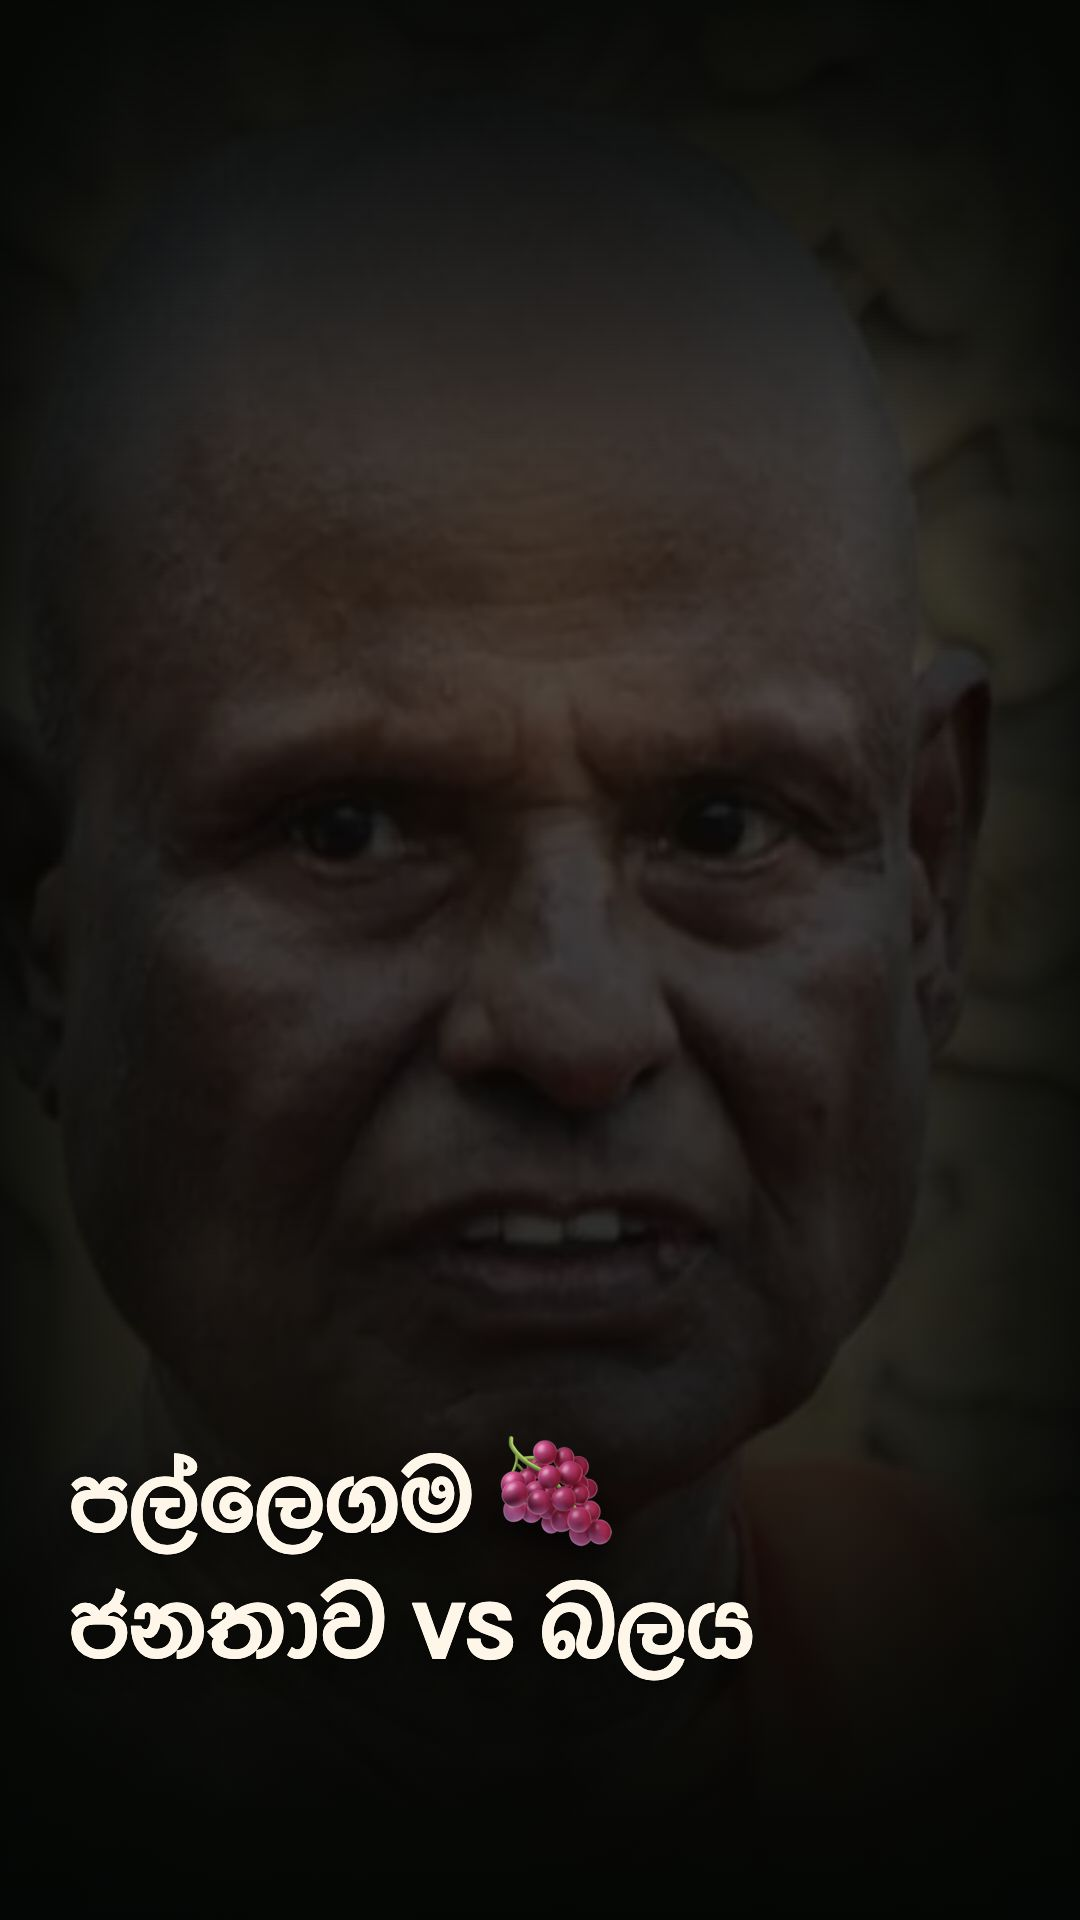
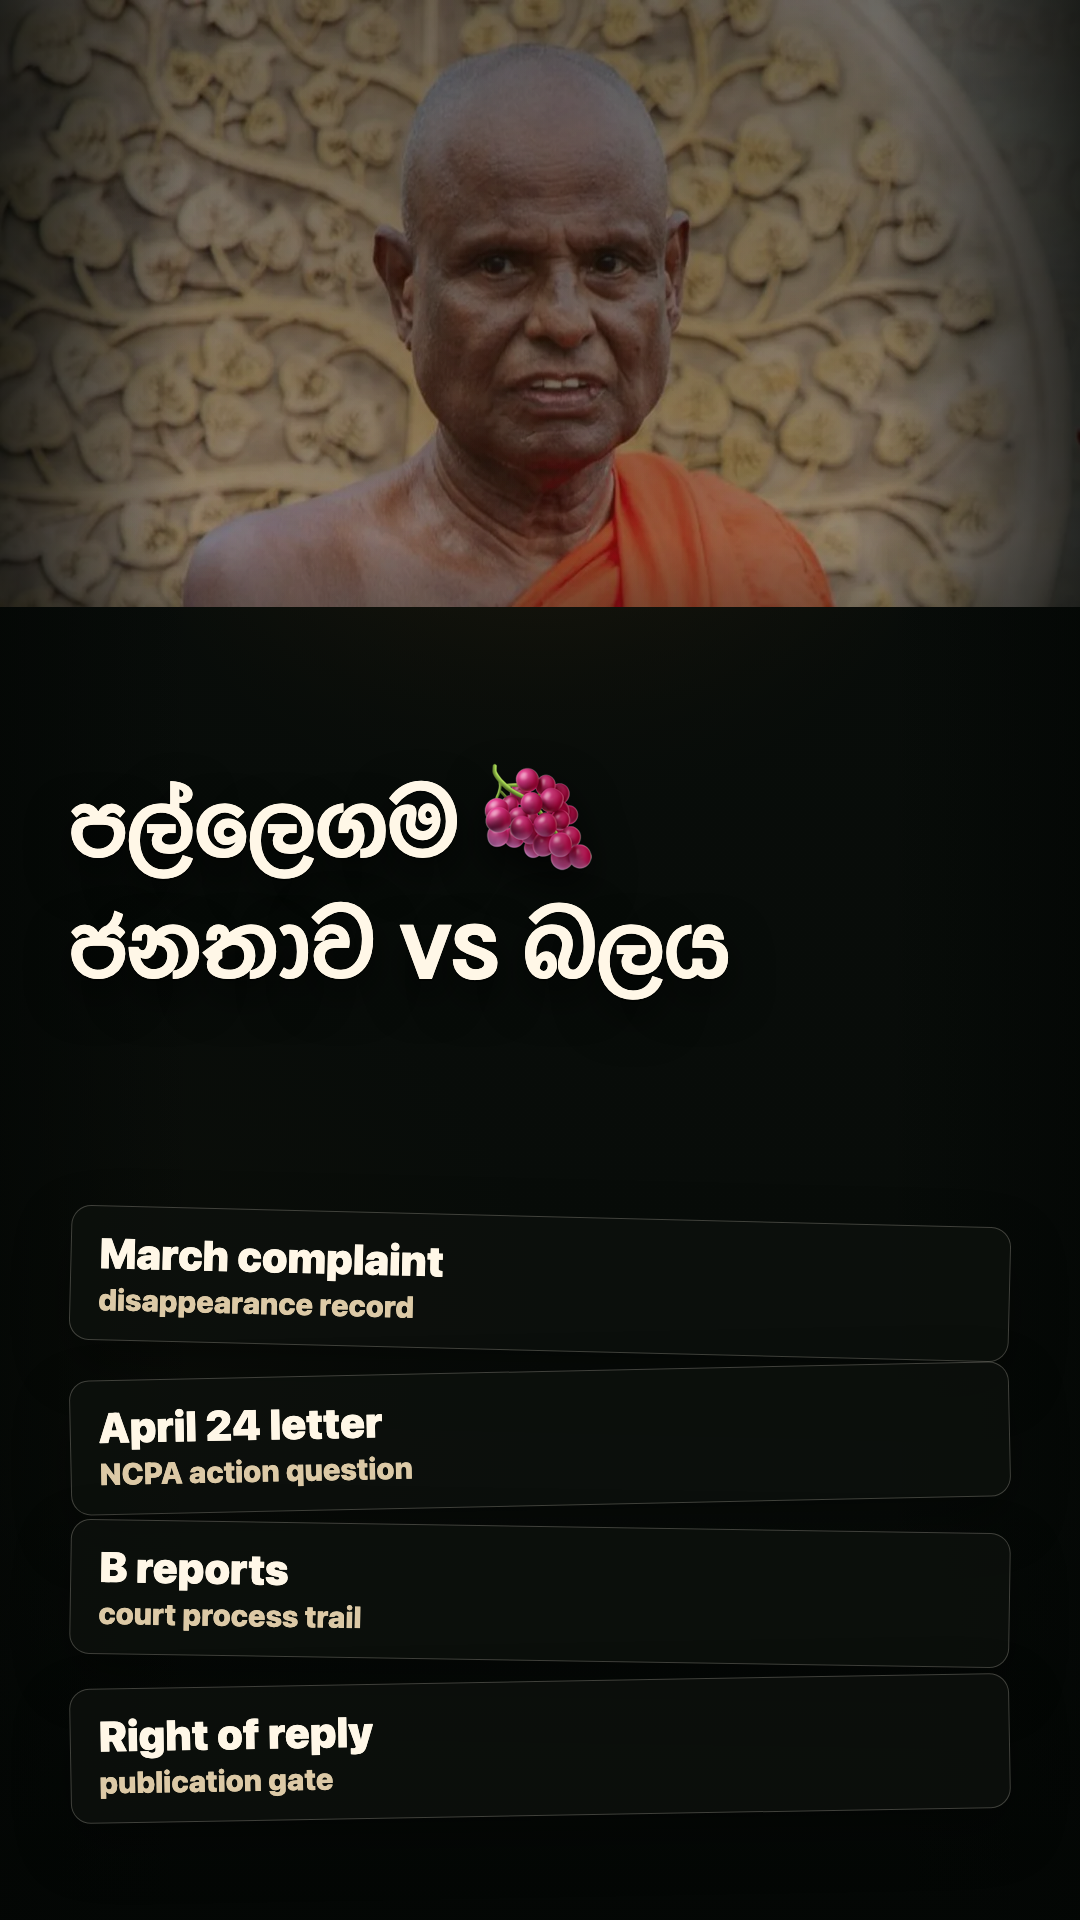
Redesign Pallegama vertical social thumbnail

diff --git a/public/pallegama-hemarathana-alleged-minor-abuse/thumbnails/social-vertical-sinhala-title.html b/public/pallegama-hemarathana-alleged-minor-abuse/thumbnails/social-vertical-sinhala-title.html
@@ -21,38 +21,41 @@
     }
     .photo {
       position: absolute;
-      inset: 0;
+      left: 0;
+      right: 0;
+      top: 0;
+      height: 740px;
       z-index: -4;
       background-image: url("../assets/pallegama-hemarathana-context.webp");
-      background-size: cover;
-      background-position: 52% 50%;
-      filter: saturate(.9) contrast(1.08) brightness(.62);
-      transform: scale(1.06);
+      background-size: 1080px auto;
+      background-position: center top;
+      background-repeat: no-repeat;
+      filter: saturate(.92) contrast(1.05) brightness(.78);
     }
     .veil {
       position: absolute;
       inset: 0;
       z-index: -3;
       background:
-        linear-gradient(180deg, rgba(5, 8, 6, .84) 0%, rgba(7, 10, 8, .42) 36%, rgba(8, 12, 9, .78) 78%, rgba(5, 8, 6, .96) 100%),
-        radial-gradient(circle at 50% 28%, rgba(212, 138, 44, .2), transparent 32%),
-        radial-gradient(circle at 18% 86%, rgba(212, 138, 44, .16), transparent 28%);
+        linear-gradient(180deg, rgba(5, 8, 6, .22) 0%, rgba(7, 10, 8, .2) 28%, rgba(8, 12, 9, .9) 42%, rgba(8, 12, 9, .94) 100%),
+        radial-gradient(circle at 50% 18%, rgba(212, 138, 44, .16), transparent 28%),
+        radial-gradient(circle at 14% 70%, rgba(212, 138, 44, .18), transparent 24%);
     }
     .edge {
       position: absolute;
       inset: 0;
       z-index: -2;
       background:
-        linear-gradient(90deg, rgba(3, 6, 4, .78), transparent 22%, transparent 78%, rgba(3, 6, 4, .78)),
-        linear-gradient(0deg, rgba(3, 6, 4, .92), transparent 24%, transparent 76%, rgba(3, 6, 4, .72));
+        linear-gradient(90deg, rgba(3, 6, 4, .7), transparent 18%, transparent 82%, rgba(3, 6, 4, .7)),
+        linear-gradient(0deg, rgba(3, 6, 4, .88), transparent 22%, transparent 68%, rgba(3, 6, 4, .28));
     }
     h1 {
       position: absolute;
       left: 70px;
       right: 66px;
-      bottom: 238px;
+      top: 760px;
       margin: 0;
-      font-size: 112px;
+      font-size: 108px;
       line-height: 1.12;
       font-weight: 950;
       letter-spacing: 0;
@@ -61,6 +64,44 @@
         0 18px 44px rgba(0, 0, 0, .72),
         0 2px 0 rgba(0, 0, 0, .38);
     }
+    .source-stack {
+      position: absolute;
+      left: 70px;
+      right: 70px;
+      bottom: 104px;
+      display: grid;
+      grid-template-columns: 1fr;
+      gap: 20px;
+    }
+    .card {
+      min-height: 132px;
+      padding: 24px 28px;
+      border-radius: 20px;
+      border: 1px solid rgba(255, 247, 231, .22);
+      background: rgba(12, 16, 12, .82);
+      color: #fff7e7;
+      box-shadow: 0 22px 54px rgba(0, 0, 0, .34);
+    }
+    .card b {
+      display: block;
+      font-family: Inter, ui-sans-serif, system-ui, sans-serif;
+      font-size: 42px;
+      line-height: 1.05;
+      font-weight: 920;
+    }
+    .card span {
+      display: block;
+      margin-top: 8px;
+      color: #dcc9a6;
+      font-family: Inter, ui-sans-serif, system-ui, sans-serif;
+      font-size: 30px;
+      line-height: 1.1;
+      font-weight: 820;
+    }
+    .card:nth-child(1) { transform: rotate(1.4deg); }
+    .card:nth-child(2) { transform: rotate(-1.2deg); }
+    .card:nth-child(3) { transform: rotate(.9deg); }
+    .card:nth-child(4) { transform: rotate(-1deg); }
   </style>
 </head>
 <body>
@@ -68,5 +109,11 @@
   <div class="veil" aria-hidden="true"></div>
   <div class="edge" aria-hidden="true"></div>
   <h1>පල්ලෙගම 🍇 ජනතාව vs බලය</h1>
+  <div class="source-stack" aria-hidden="true">
+    <div class="card"><b>March complaint</b><span>disappearance record</span></div>
+    <div class="card"><b>April 24 letter</b><span>NCPA action question</span></div>
+    <div class="card"><b>B reports</b><span>court process trail</span></div>
+    <div class="card"><b>Right of reply</b><span>publication gate</span></div>
+  </div>
 </body>
 </html>